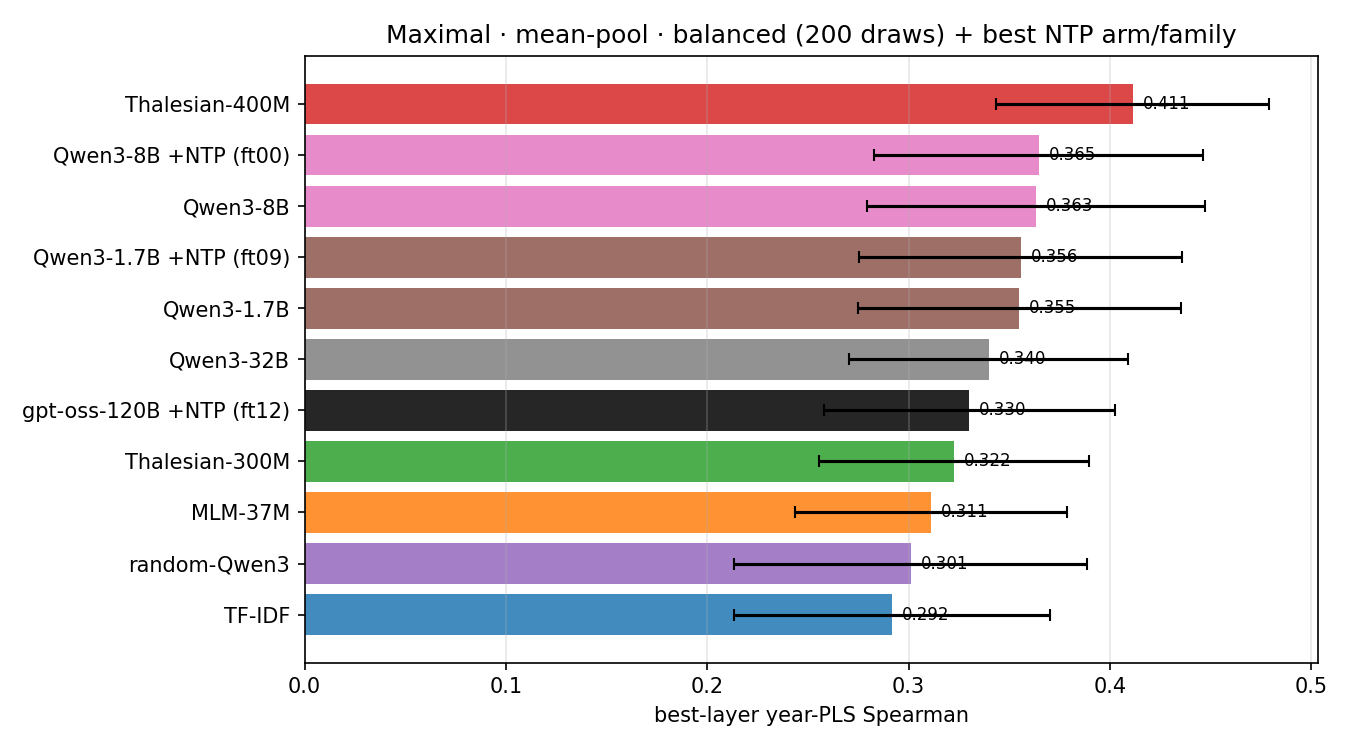
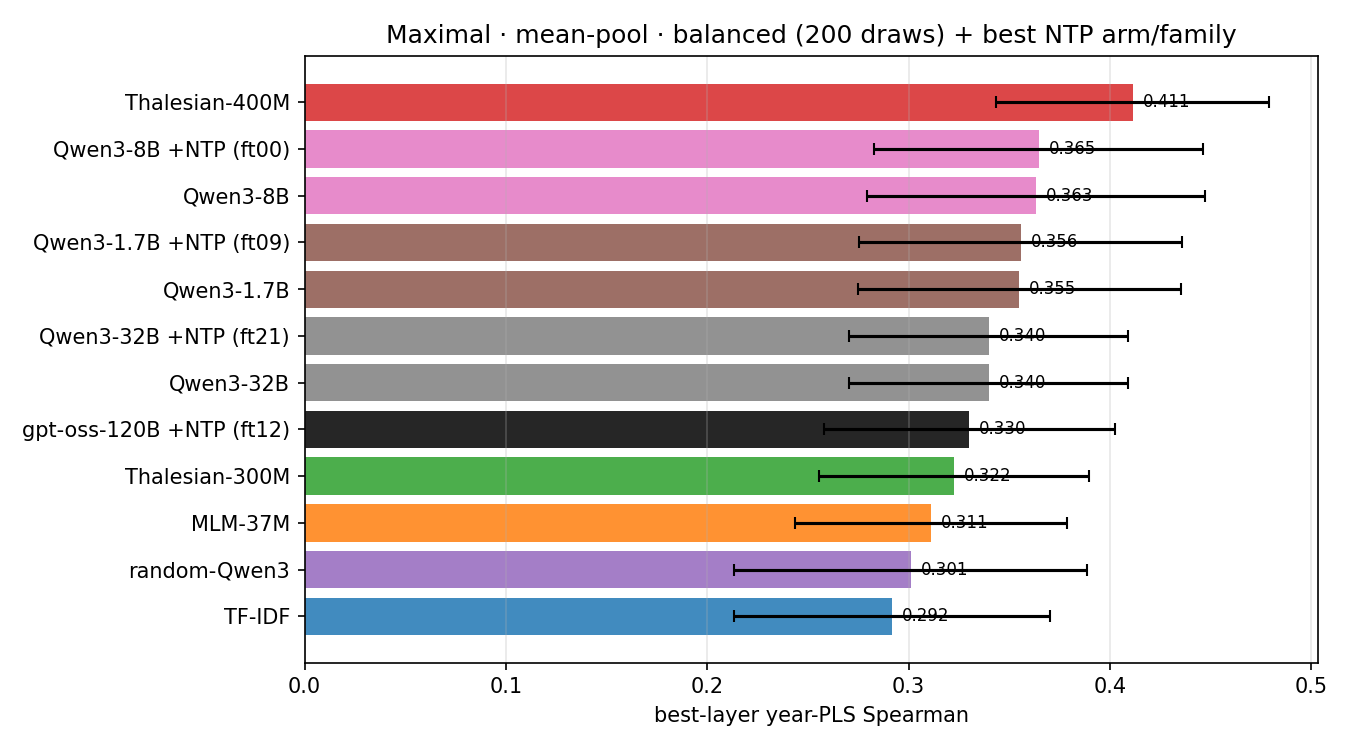
finetune: 32B results complete — NTP flat at maximal across ALL 4 families (32B Δ=0.000, frozen-layer signature byte-identical to base). Ladder done.

diff --git a/v_1/src/finetune/RESULTS_finetune.md b/v_1/src/finetune/RESULTS_finetune.md
@@ -1,7 +1,7 @@
 # RESULTS — Akkadian NTP fine-tune + depth ablation (Task 5)
 
-_Last updated: 2026-06-12. Source: `results/scoreboard_best.csv` (balanced 200-draw
-year-PLS Spearman). 32B probe (FT5b) still running — table updates when it lands._
+_Last updated: 2026-06-14. Source: `results/scoreboard_best.csv` (balanced 200-draw
+year-PLS Spearman). COMPLETE — all four families (1.7B/8B/32B/gpt-oss-120b) probed._
 
 ## Headline
 
@@ -20,11 +20,13 @@ that leaks length and vanishes on the one that controls for it.
 |---|---|---|---|
 | Qwen3-1.7B | 0.3549 (L9) | 0.3556 (ft09/19/25, L9) | +0.001 (noise) |
 | Qwen3-8B | 0.3633 (L16) | 0.3646 (ft00, L14) | +0.001 (noise) |
-| Qwen3-32B | 0.3398 (L6) | _FT5b running_ | — |
+| Qwen3-32B | 0.3398 (L6) | 0.3398 (ft21/43/58, L6) | 0.000 |
 | gpt-oss-120b | 0.3301 (L5) | 0.3301 (ft12/24/32, L5) | 0.000 |
 
-All flat. **Full fine-tune is neutral-to-slightly-negative** (1.7B ft00 0.342 <
-base; gpt-oss ft00 0.327 < base).
+All flat — max Δ = +0.0013 (8B), well inside the ±0.08 draw-to-draw std.
+**Full fine-tune is neutral-to-slightly-negative** (1.7B ft00 0.342, 32B ft00
+0.337, gpt-oss ft00 0.327 — all ≤ base). The frozen-layer signature is starkest
+at 32B: ft21/ft43/ft58 are **byte-identical to base (0.3398)** at L6.
 
 ### tier0 (full text — length/style leak in)
 
@@ -32,7 +34,7 @@ base; gpt-oss ft00 0.327 < base).
 |---|---|---|---|
 | Qwen3-1.7B | 0.397 (L2, σ=0.29 unreliable) | 0.372 (L9) | ~flat |
 | Qwen3-8B | 0.420 (L3, σ=0.32 unreliable) | 0.376 (ft00, L15) | ~flat |
-| Qwen3-32B | 0.433 (L5, σ=0.31 unreliable) | _FT5b running_ | — |
+| Qwen3-32B | 0.433 (L5, σ=0.31 unreliable) | 0.399 (ft21/43/58, L9) | ~flat |
 | **gpt-oss-120b** | **0.404 (L27)** | **0.451 (ft00, L17)** | **+0.048** |
 
 (Base tier0 for the Qwen models has huge variance — the single-best-layer pick
@@ -76,7 +78,10 @@ better dating probe — the decisive result.
 
 ## Status of jobs (see README run-log for IDs)
 
-- ✅ 1.7B (FT2/FT3), 8B (FT4/FT5), gpt-oss-120b (FT0/FT0b base; FT6/FT7 FT) — done.
-- 🏃 32B (FT4b done, FT5b probe running) — last tile.
-- Next: FT8/M6 folds the **best cut per family + gpt-oss** into the maximal
-  fig1/fig2/fig4 + MAE panels (full 4-cut grids stay in `results/figures/`).
+- ✅ ALL DONE: 1.7B (FT2/FT3), 8B (FT4/FT5), 32B (FT4b/FT5b), gpt-oss-120b
+  (FT0/FT0b base; FT6/FT7 FT). Full ladder probed across maximal + tier0.
+- gpt-oss-120b also folded into the canonical maximal panel set (fig1/2/4 +
+  k-sweep, 9 models). Local comparison plot: `plot_maximal_pls.py --with-ft`
+  → `results/figures/maximal_pls_{bestlayer,layerwise}.png`.
+- Optional remaining polish: FT8/M6 to fold the best FT *cut* per family into
+  the canonical fig1/2/4 (the local comparison plot already shows this).
